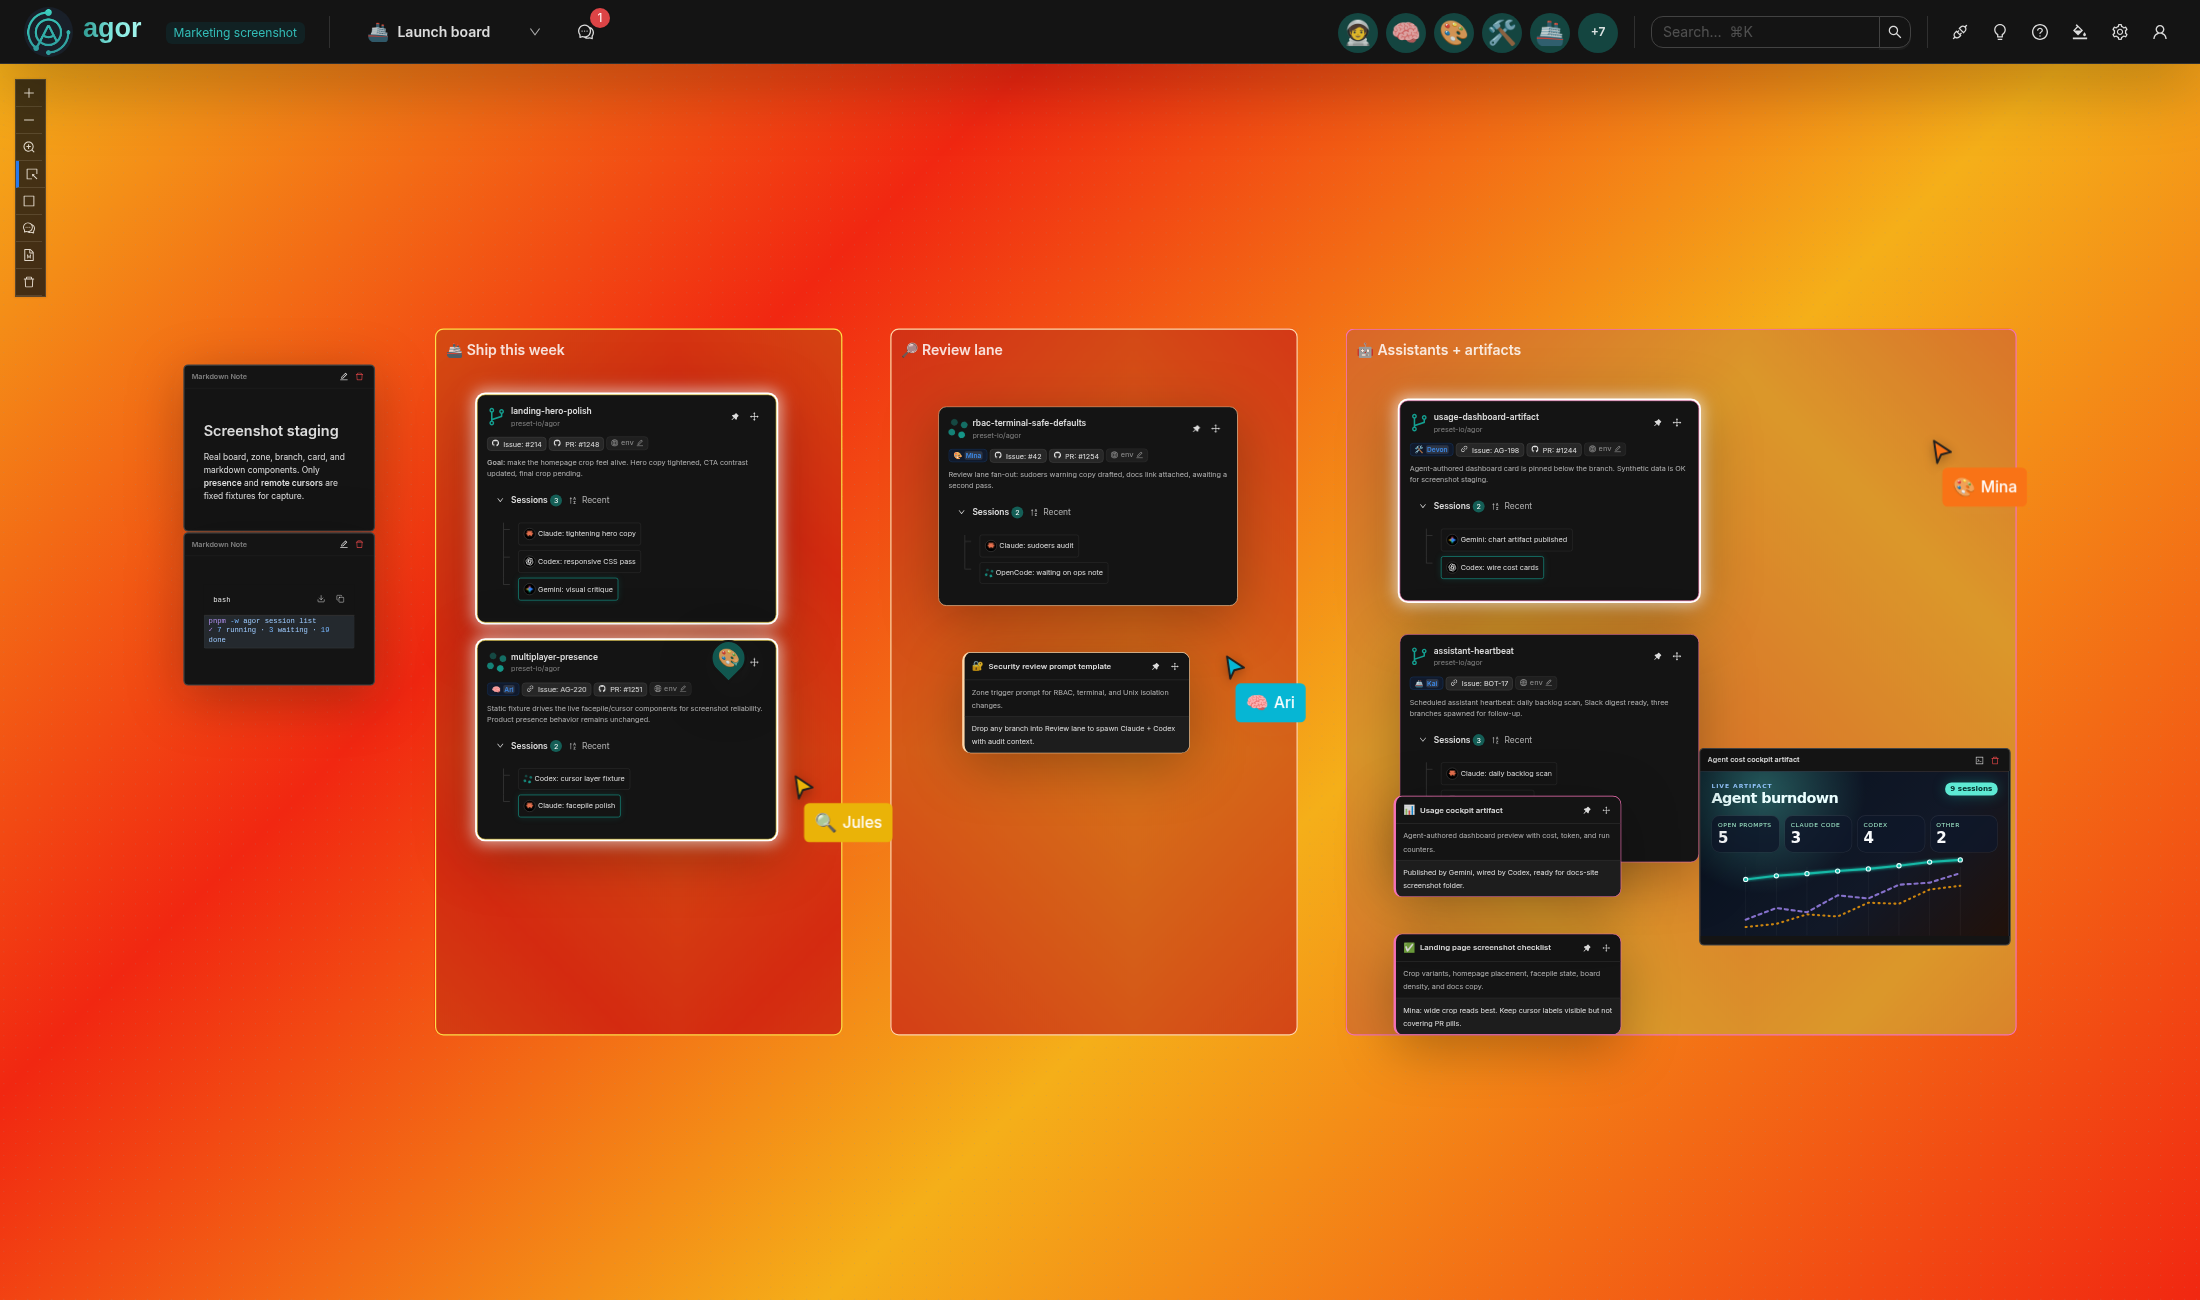
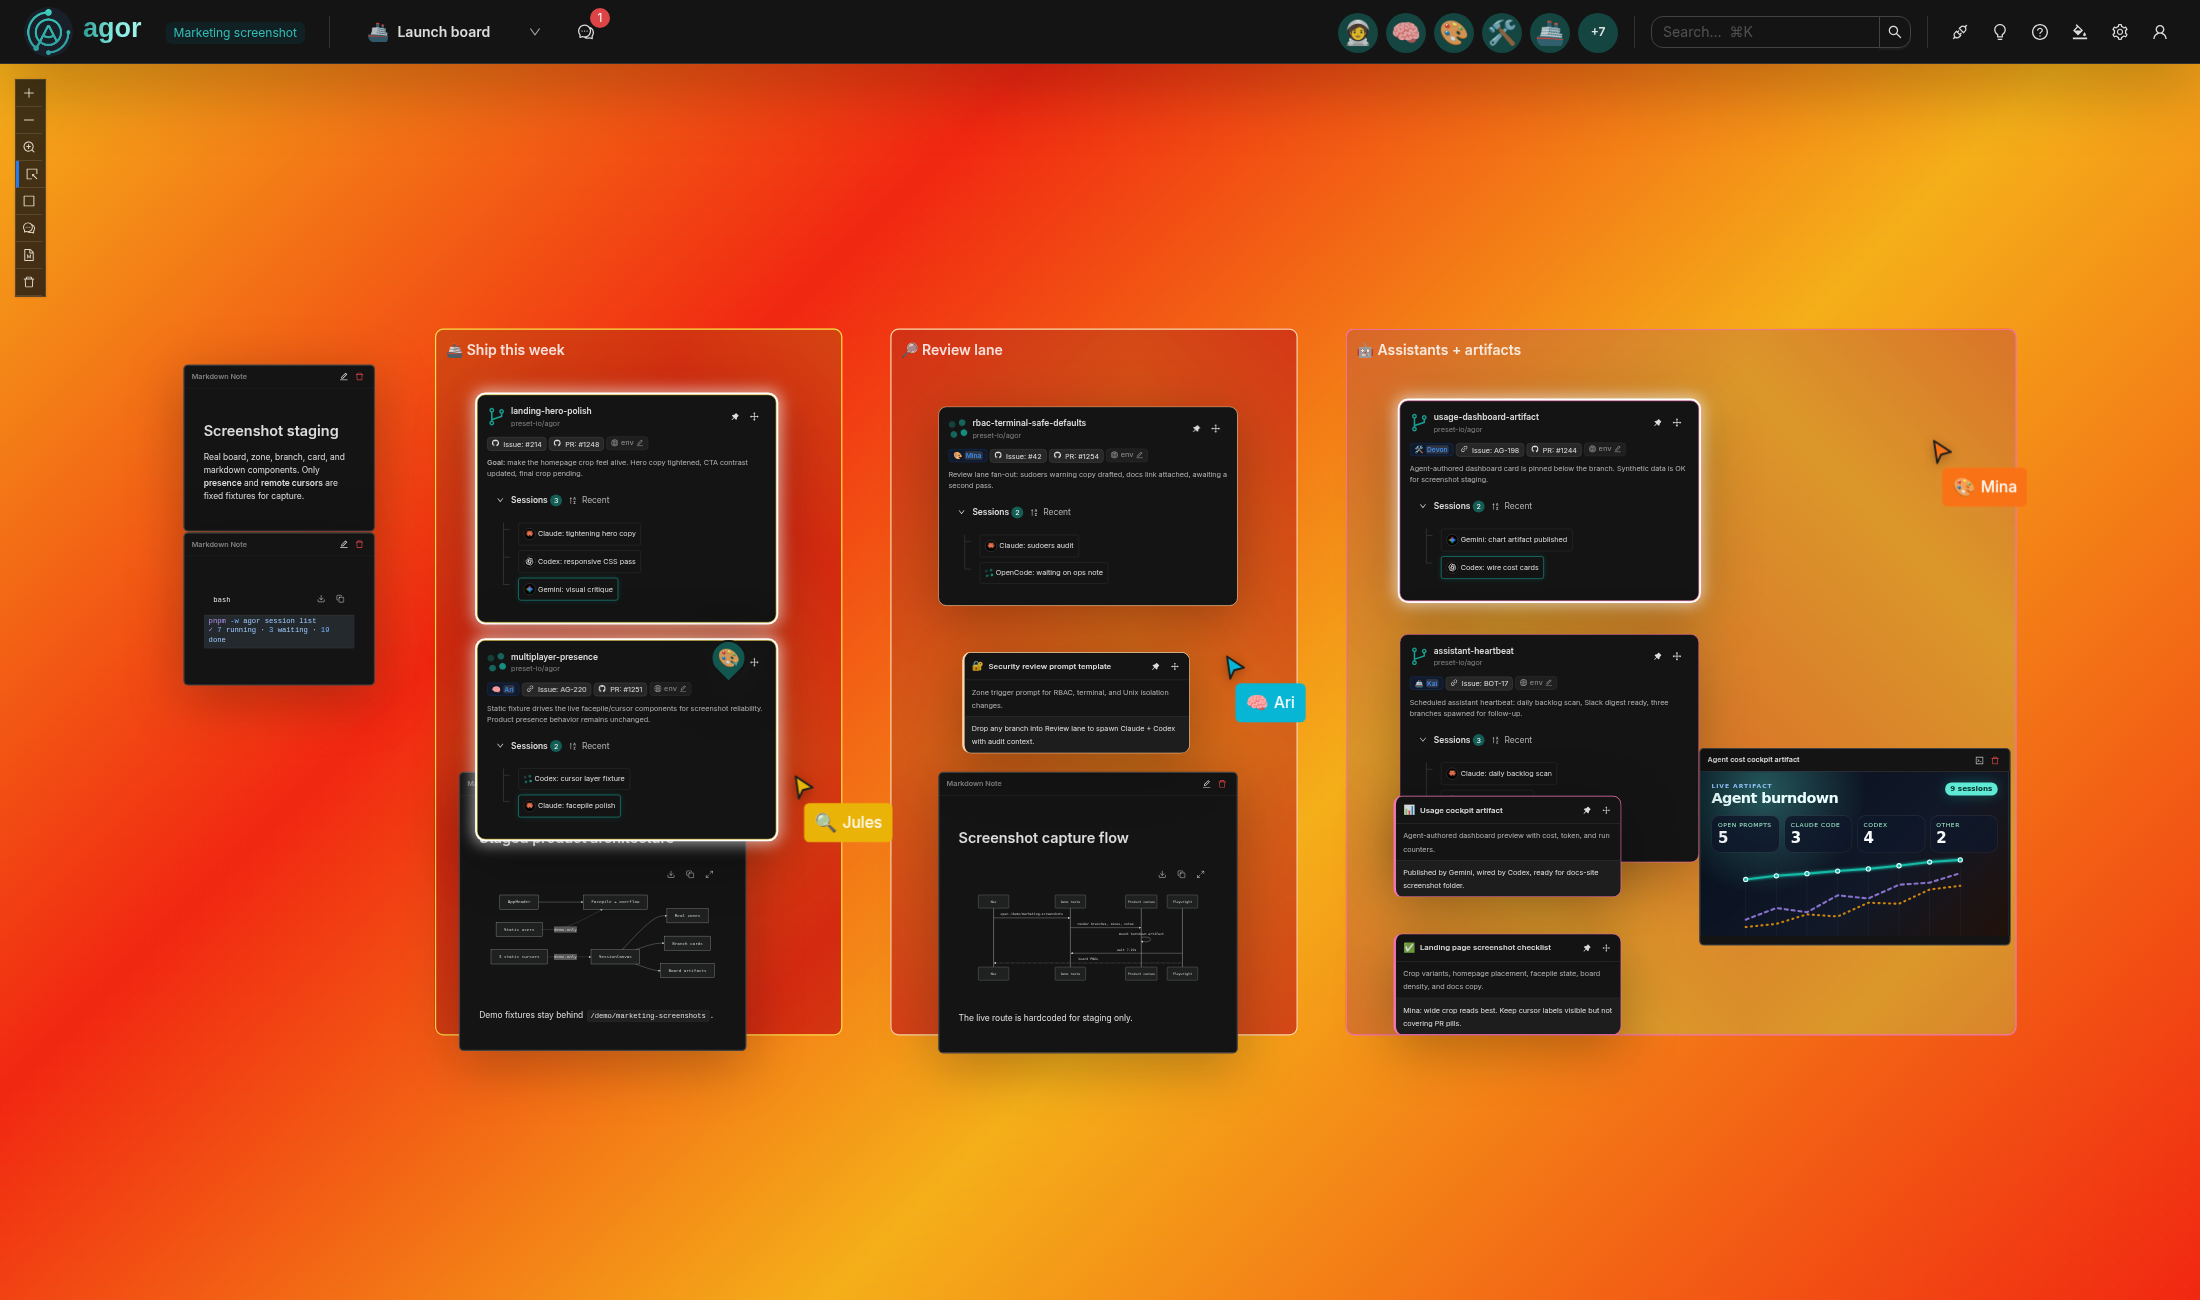
Add marketing markdown diagram notes

Changed region(s): [[0.4018, 0.5846, 0.5873, 0.8308], [0.1855, 0.5846, 0.34, 0.8308]]

diff --git a/apps/agor-ui/src/pages/MarketingScreenshotPage.tsx b/apps/agor-ui/src/pages/MarketingScreenshotPage.tsx
@@ -211,6 +211,22 @@ const board: Board = {
       width: 320,
       content: '```bash\npnpm -w agor session list\n✓ 7 running · 3 waiting · 19 done\n```',
     },
+    'note-architecture': {
+      type: 'markdown',
+      x: 100,
+      y: 820,
+      width: 480,
+      content:
+        '### Staged product architecture\n\n```mermaid\nflowchart LR\n  Header[AppHeader] --> Facepile[Facepile + overflow]\n  Board[SessionCanvas] --> Zones[Real zones]\n  Board --> Branches[Branch cards]\n  Board --> Artifacts[Board artifacts]\n  Presence[Static users] -.demo-only.-> Facepile\n  Cursors[3 static cursors] -.demo-only.-> Board\n```\n\nDemo fixtures stay behind `/demo/marketing-screenshots`.',
+    },
+    'note-sequence': {
+      type: 'markdown',
+      x: 900,
+      y: 820,
+      width: 500,
+      content:
+        '### Screenshot capture flow\n\n```mermaid\nsequenceDiagram\n  participant Max\n  participant UI as Demo route\n  participant Canvas as Product canvas\n  participant Shot as Playwright\n  Max->>UI: open /demo/marketing-screenshots\n  UI->>Canvas: render branches, zones, notes\n  Canvas->>Canvas: mount burndown artifact\n  Shot->>UI: wait 7-10s\n  Shot-->>Max: board PNGs\n```\n\nThe live route is hardcoded for staging only.',
+    },
   },
 };
 
